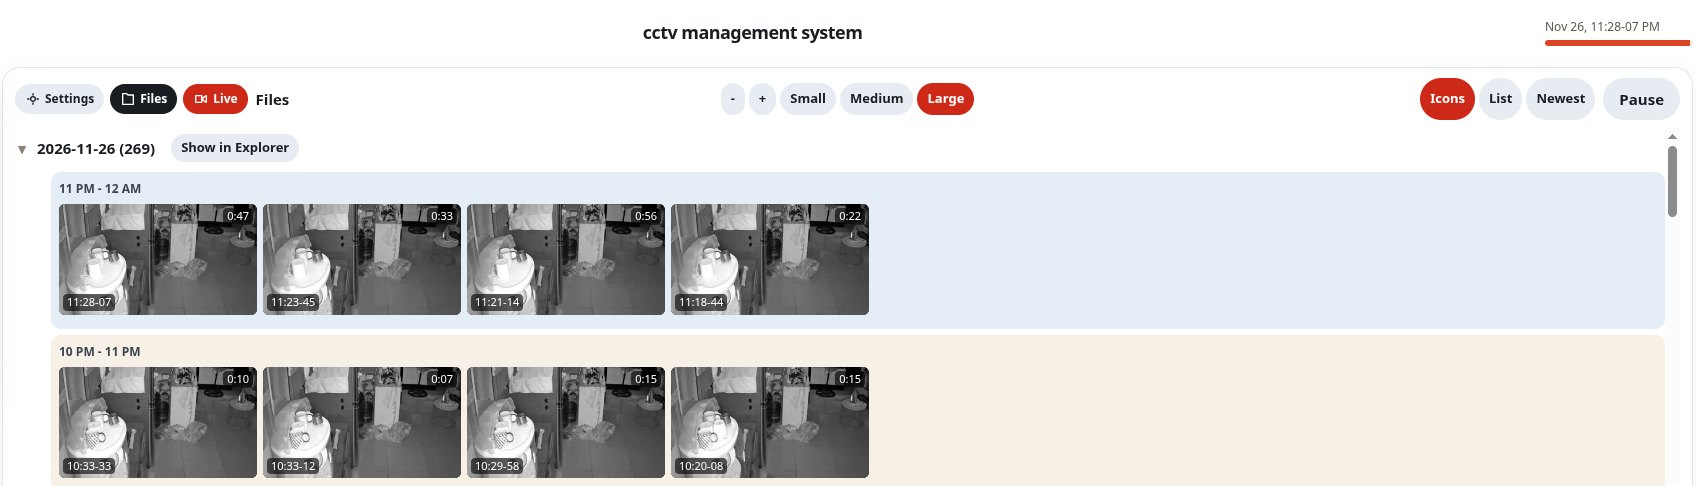
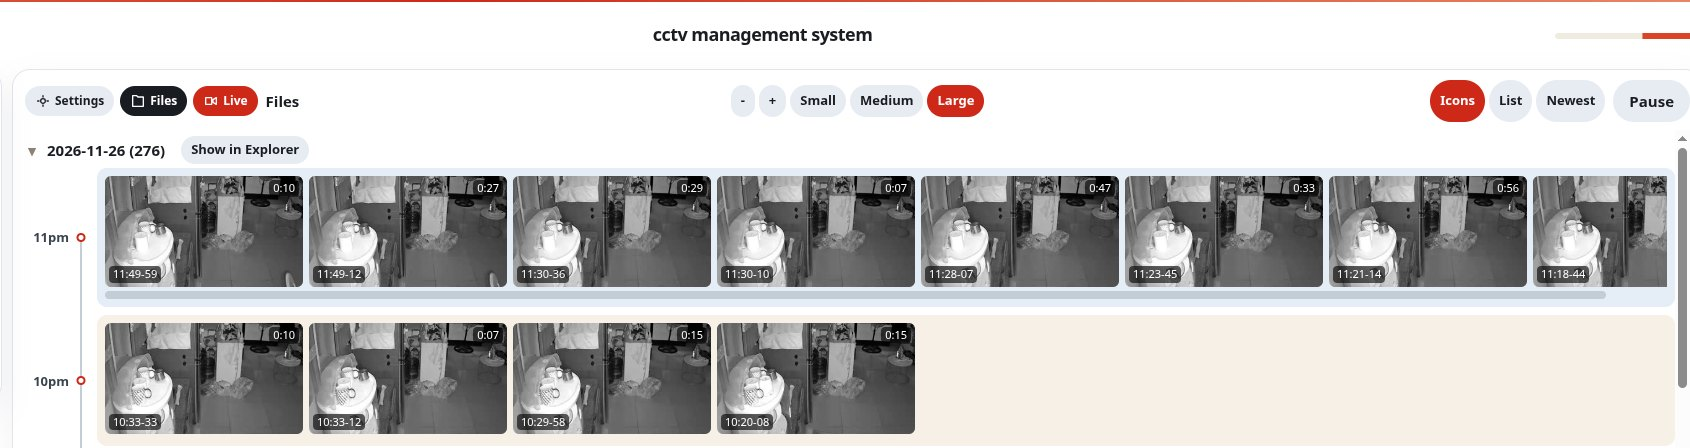
show hour starts on a timeline and open one day at a time

diff --git a/public/index.html b/public/index.html
@@ -45,9 +45,12 @@
     .cols { padding: 0 8px 8px; border-bottom: 1px solid #efeae1; color: #6b645b; font-size: 12px; }
     button.text { background: none; color: inherit; border-radius: 0; padding: 0; font: inherit; text-align: left; }
     .day { margin-top: 4px; }
-    .hour { margin: 6px 0 6px 40px; padding: 8px 8px 10px; border-radius: 10px; background: #e7eef6; }
+    .hours { position: relative; display: flex; flex-direction: column; gap: 8px; padding-left: 72px; }
+    .hour { position: relative; margin: 0; padding: 8px; border-radius: 10px; background: #e7eef6; }
     .hour-alt { background: #f6efe6; }
-    .hour-head { margin: 0 0 6px; color: #3d4650; font-size: 13px; font-weight: 650; }
+    .hour:not(:last-child)::before { content: ""; position: absolute; left: -16px; top: 50%; bottom: calc(-50% - 8px); width: 2px; background: #c5ced6; transform: translateX(-50%); }
+    .hour-head { position: absolute; top: 50%; right: calc(100% + 28px); margin: 0; transform: translateY(-50%); color: #3d4650; font-size: 13px; font-weight: 680; line-height: 1; white-space: nowrap; }
+    .hour-head::before { content: ""; position: absolute; left: calc(100% + 12px); top: 50%; width: 9px; height: 9px; box-sizing: border-box; border: 2px solid var(--accent); border-radius: 50%; background: #fff; transform: translate(-50%, -50%); z-index: 1; }
     .hour .file { padding-left: 0; }
     .day-head { font-weight: 650; padding: 7px 8px; border-radius: 8px; }
     .day-head:hover { background: #f7f1e7; }
@@ -85,8 +88,7 @@
     #explorer.icons .day-head .remark,
     #explorer.icons .day-head .progress { display: none; }
     #panel, #explorer, #explorer .day, #explorer.icons .hour { min-width: 0; }
-    #explorer.icons .hour { margin-left: 36px; }
-    #explorer.icons .hour-head { font-size: 12px; }
+    #explorer.icons .hour-head { font-size: 13px; }
     #explorer.icons .tiles { display: flex; flex-wrap: nowrap; gap: 6px; margin: 0; overflow-x: auto; overflow-y: hidden; overscroll-behavior-x: contain; padding-bottom: 4px; }
     #explorer.icons .tiles::-webkit-scrollbar { height: 8px; }
     #explorer.icons .tiles::-webkit-scrollbar-thumb { background: #c5ced6; border-radius: 99px; }
@@ -537,9 +539,7 @@
     let browse = "icons";
     let shotSize = "large";
     let shotNudge = 0;
-    const openDays = new Set();
-    const closedDays = new Set();
-    const iconClosed = new Set();
+    let openDay = null;
     const browseBar = document.querySelector("#browse");
     const browseIcons = document.querySelector("#browse-icons");
     const browseList = document.querySelector("#browse-list");
@@ -1469,12 +1469,8 @@
     }
 
     function hourLabel(hour) {
-      const clock = (value) => {
-        const suffix = value < 12 ? "AM" : "PM";
-        return (value % 12 || 12) + " " + suffix;
-      };
       const start = Number(hour);
-      return clock(start) + " - " + clock((start + 1) % 24);
+      return (start % 12 || 12) + (start < 12 ? "am" : "pm");
     }
 
     function appendHours(parent, files, savedNames, current) {
@@ -1485,6 +1481,8 @@
         buckets.get(hour).push(file);
       }
       const hours = [...buckets.keys()].sort((a, b) => (a === "other" ? 1 : b === "other" ? -1 : byRecent(a, b)));
+      const stack = document.createElement("div");
+      stack.className = "hours";
       hours.forEach((hour, index) => {
         const band = document.createElement("div");
         band.className = "hour" + (index % 2 ? " hour-alt" : "");
@@ -1501,8 +1499,9 @@
         } else {
           for (const file of group) band.append(clipRow(file, savedNames, current));
         }
-        parent.append(band);
+        stack.append(band);
       });
+      parent.append(stack);
     }
 
     function clockLabel(file) {
@@ -1595,6 +1594,7 @@
         return;
       }
       const newest = days.slice().sort().at(-1);
+      const chosen = openDay === null || (openDay !== "" && !days.includes(openDay)) ? newest : openDay;
       const headRow = document.createElement("div");
       headRow.className = "cols";
       const nameHead = document.createElement("span");
@@ -1616,7 +1616,7 @@
       if (browse !== "icons") explorer.append(headRow);
       for (const day of days) {
         const files = groups.get(day).slice().sort(byRecent);
-        const open = browse === "icons" ? !iconClosed.has(day) : openDays.has(day) || (day === newest && !closedDays.has(day));
+        const open = day === chosen;
         const block = document.createElement("div");
         block.className = "day";
         const head = document.createElement("div");
@@ -1632,16 +1632,7 @@
         title.textContent = day + " (" + files.length + ")";
         toggle.append(mark, title);
         toggle.addEventListener("click", () => {
-          if (browse === "icons") {
-            if (open) iconClosed.add(day);
-            else iconClosed.delete(day);
-          } else if (open) {
-            openDays.delete(day);
-            closedDays.add(day);
-          } else {
-            closedDays.delete(day);
-            openDays.add(day);
-          }
+          openDay = open ? "" : day;
           renderExplorer();
         });
         const when = document.createElement("span");

diff --git a/README.md b/README.md
@@ -6,7 +6,7 @@ The camera stays on the same network as the PC. Nothing in this project signs in
 
 ![Setup page](docs/ui.png)
 
-Clips land in hour rows. The time on each still is the start, down to the second, so two clips from the same minute stay distinct.
+Clips land in hour rows. Each row is marked at the middle left with its start, such as 11pm, and a line connects those times. The time on each still is the start, down to the second, so two clips from the same minute stay distinct.
 
 ![File list](docs/files.jpg)
 
@@ -31,7 +31,7 @@ The device login is the camera username and password set in the V380 Android or 
 
 The download stays running after the page is closed. Each check takes the most recent finished clip. It copies two clips, then waits 30 seconds before the next two, so the camera can keep recording. When that day has no finished clip left to copy, the next most recent day is used, again starting with its newest clip. A clip that is still being recorded is picked up after it ends. Files already in the save folder are skipped. Pause holds the download, and Play continues it. While clips are copying, the title row shows the two files in the pair. Each one has its date and time, with a bar underneath. The first stays full when the second starts. After those two, the bars go away and the top right counts down 30 seconds until the next download. The program restarts itself at 3:00 and continues a download that is not paused.
 
-After a download starts, the page shows the clips as icons, grouped by day and then by hour, so many videos fit on one screen. The newest hour is the first row, then the hour before it. Each hour stays on one row and scrolls sideways when it has more clips. **Small**, **Medium**, and **Large** in the middle of the file list change the still size. Large is the default, and Medium is two thirds of that. Minus and plus beside them change that size by 20 percent each tap, and the button shows the total, such as + 40%, while the chosen size stays highlighted. **List** switches back to one row per clip, with the newest day open and older days closed until opened. Each icon is a still from the video. The time on it is the start, such as 10:33-20 for 20 seconds past 10:33. Click it to play that clip across the window. The maximized clip has a play button and a timeline at the bottom center, so you can jump to a time in that clip. The file is already on this PC, so playback starts from the local copy while the picture is being prepared for the browser. **Icons** is the default, and a refresh keeps **List** if that was selected. One clip plays at a time, in this page. A **Show in Explorer** button opens that day's folder on the PC.
+After a download starts, the page shows the clips as icons, grouped by day and then by hour, so many videos fit on one screen. The newest hour is the first row, then the hour before it. The start of that hour, such as 11pm, sits at the middle left of the row, and a line connects it to the hours above and below. Each hour stays on one row and scrolls sideways when it has more clips. **Small**, **Medium**, and **Large** in the middle of the file list change the still size. Large is the default, and Medium is two thirds of that. Minus and plus beside them change that size by 20 percent each tap, and the button shows the total, such as + 40%, while the chosen size stays highlighted. Only one day is open at a time. The newest day starts open, and opening another day closes the one that was open. **List** switches back to one row per clip. Each icon is a still from the video. The time on it is the start, such as 10:33-20 for 20 seconds past 10:33. Click it to play that clip across the window. The maximized clip has a play button and a timeline at the bottom center, so you can jump to a time in that clip. The file is already on this PC, so playback starts from the local copy while the picture is being prepared for the browser. **Icons** is the default, and a refresh keeps **List** if that was selected. One clip plays at a time, in this page. A **Show in Explorer** button opens that day's folder on the PC.
 
 **Keep local videos** limits how long those copies stay on the PC. The default is 30 days. An older video is deleted from this PC only when a new one is saved, one in and one out. Deleted copies stay in the list with the name crossed out and a remark such as Deleted, 60 minutes old. They are downloaded again only after the keep limit is raised enough to include them. Change the number of minutes, hours, days, weeks, or months, then **Apply keep**. Clear the number to keep every saved video. The camera SD card is left as it is.
 

diff --git a/INSTALL.md b/INSTALL.md
@@ -51,7 +51,7 @@ Do this in the V380 app on Android or iOS before you use this program. The camer
 3. Click **Find on network** and select the camera. **Scan V380** is only for a PC that already has the V380 app installed and signed in.
 4. Enter the **username** and **password** you set in the phone app. Use that same login here.
 5. Click **Save camera**, or click **Start download**. Starting a download saves the camera on this PC.
-6. The page shows the clips as icons so many videos fit on one screen. **List** is one row per clip. In that view the newest day is open and older days stay closed until you open them.
+6. The page shows the clips as icons so many videos fit on one screen. **List** is one row per clip. Only one day is open at a time. The newest day starts open, and opening another day closes the one that was open.
 7. An older local copy is deleted only when a new video is saved, one in and one out. Open **Settings** to keep a different number of minutes, hours, days, weeks, or months, then click **Apply keep**. The default is 30 days. Clear the number to keep every saved video. The camera SD card is not changed.
 
 The next time, choose the camera under **Saved cameras**. **Live** shows the camera's current picture. When that picture is three views stacked together, Vertical, Horizontal, Focus, and Pair arrange them. A refresh keeps the layout. Maximize fills the browser window, and in that view the layout choices sit at the bottom right. Live plays in the page, and Maximize only makes that picture larger. Each saved clip shows a still instead of its file name. **Icons** is the default, and **List** keeps the row of details. If the picture stalls, the page opens it again, and the page reloads once an hour. Closing the page leaves the download running. **Pause** holds it, and **Play** continues from the clips already saved.
